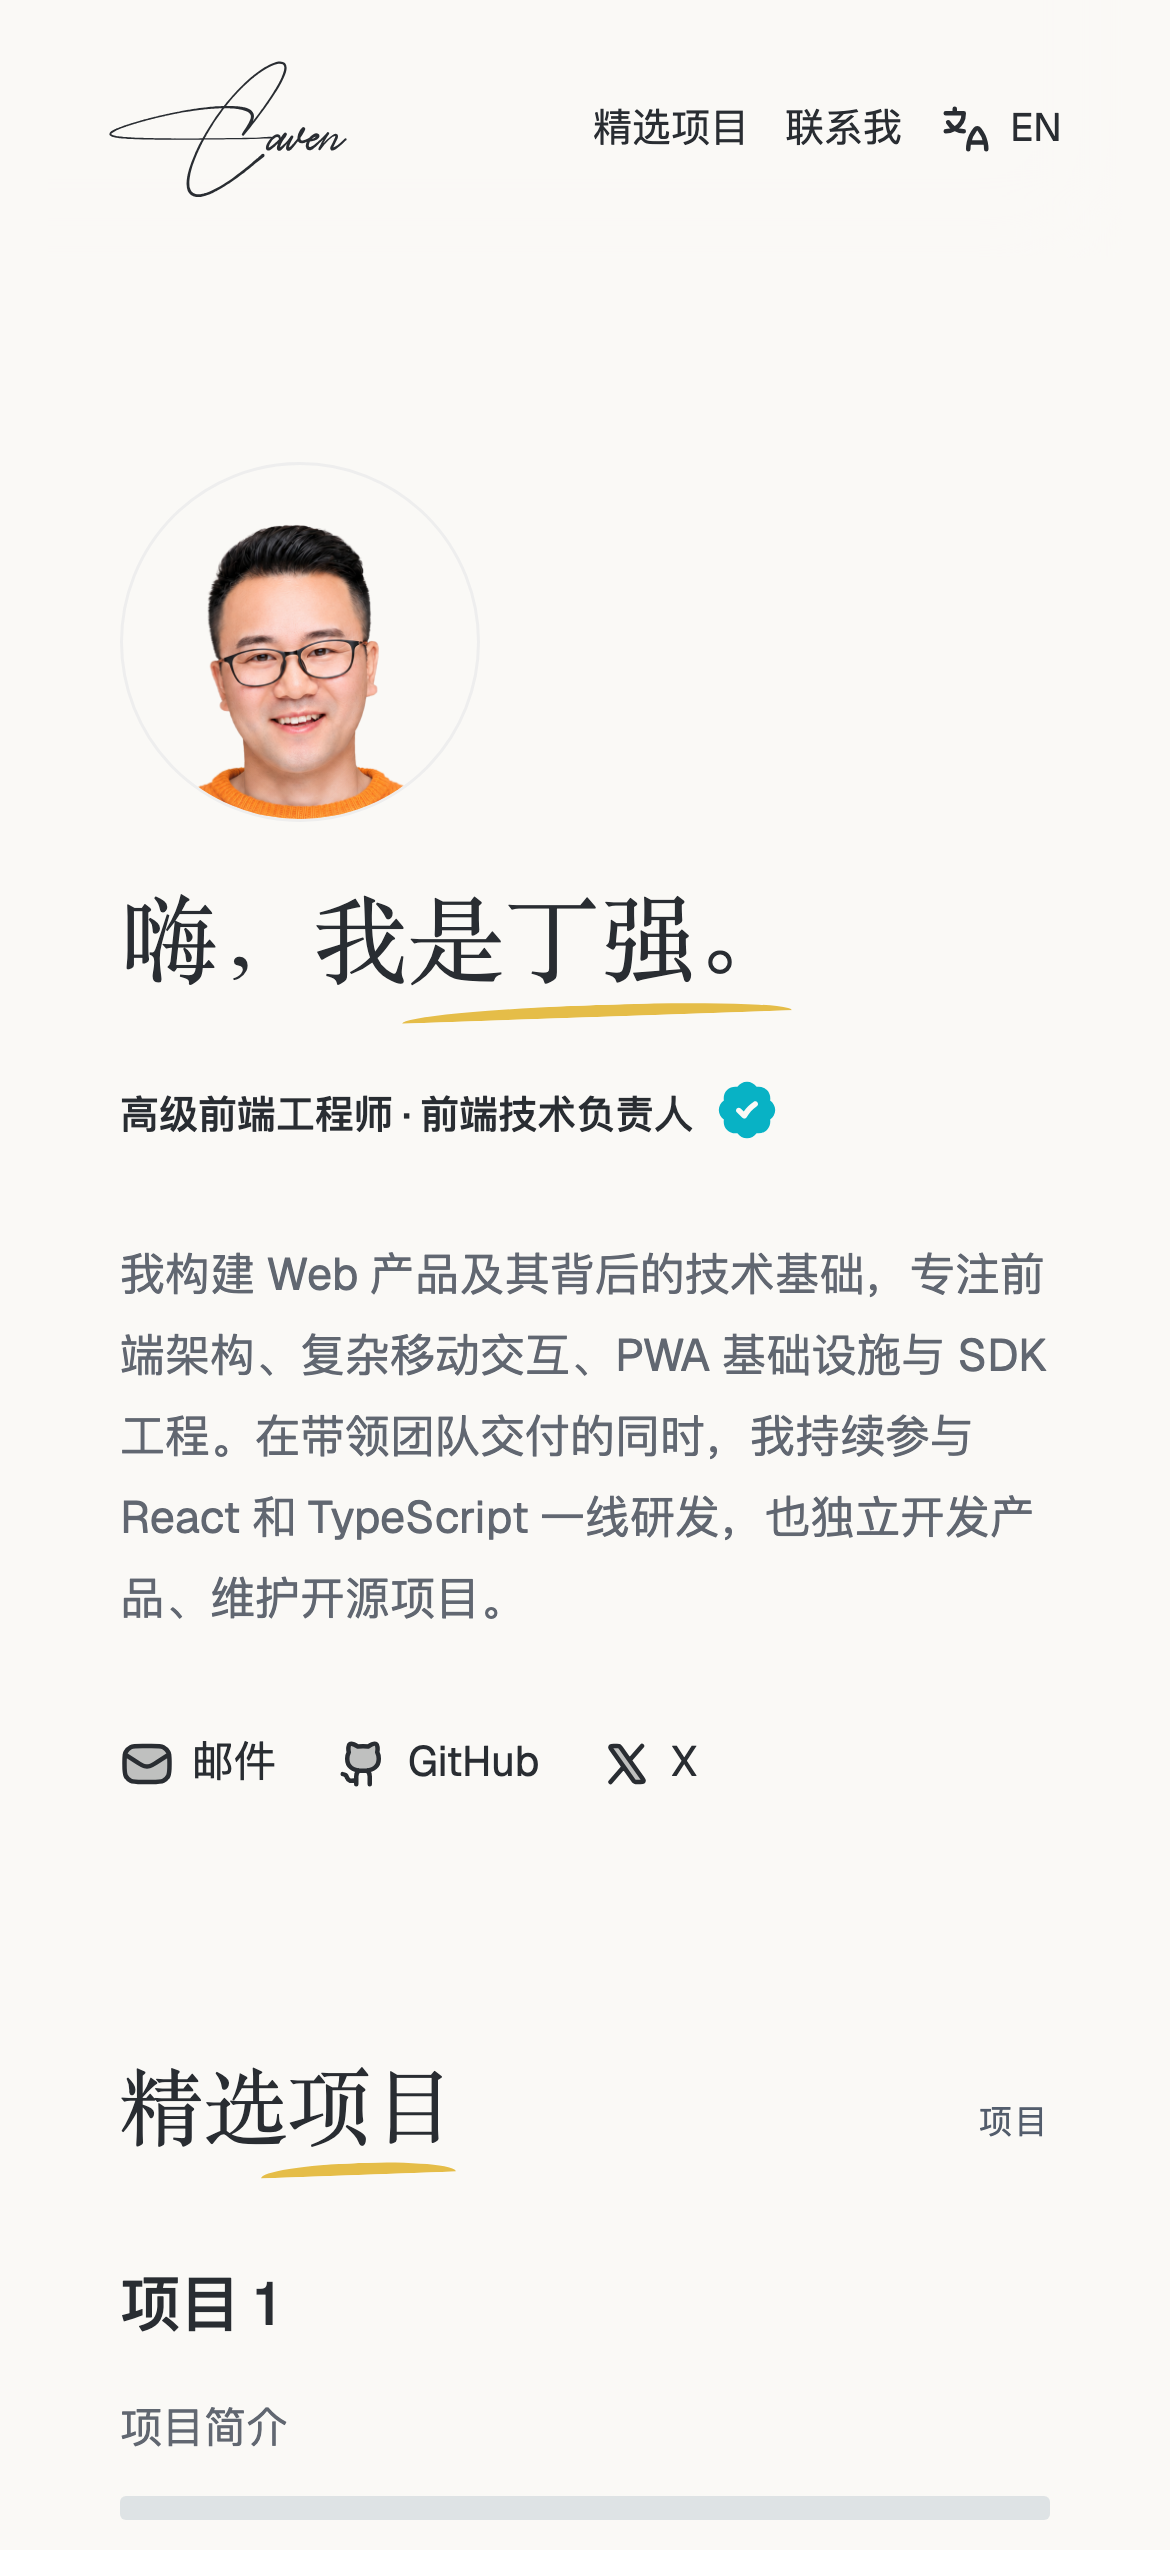
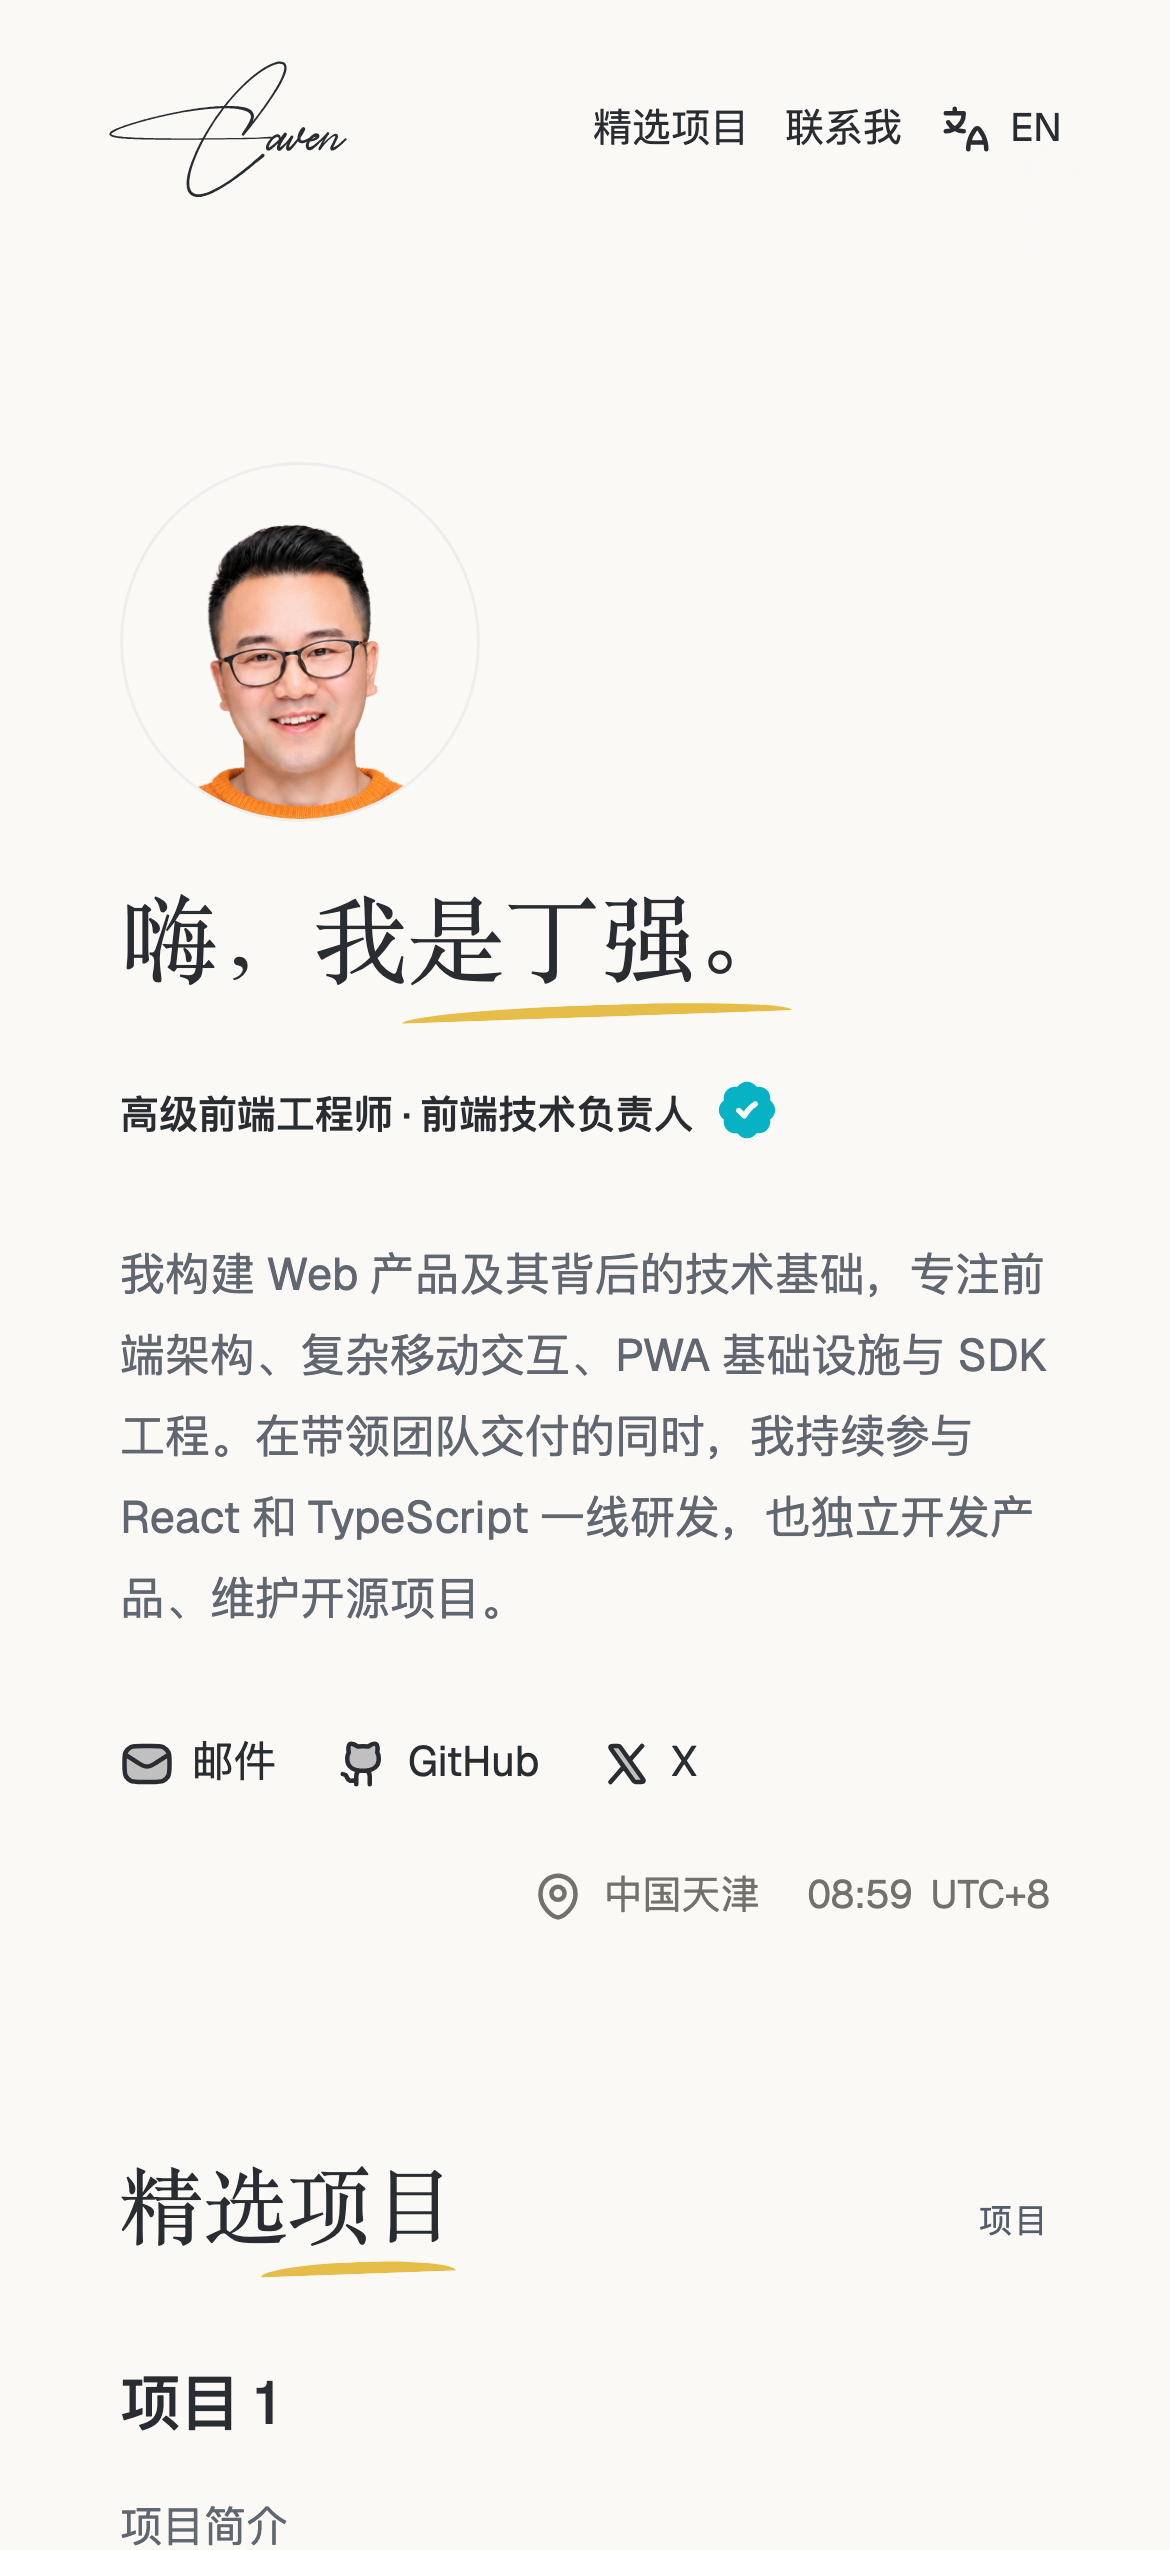
feat: show Tianjin local time beside contact links

diff --git a/tests/identity.test.ts b/tests/identity.test.ts
@@ -235,3 +235,22 @@ test("portrait sits above the greeting on narrow screens and beside it on deskto
     else expect(portrait.x + portrait.width).toBeLessThan(heading.x);
   }
 });
+
+test("Tianjin clock uses Beijing time and advances independently of visitor timezone", async ({
+  browser,
+}) => {
+  const context = await browser.newContext({ timezoneId: "America/New_York" });
+  const page = await context.newPage();
+  await page.clock.install({ time: new Date("2026-09-15T15:59:59Z") });
+  await page.goto("/zh/");
+  const clock = page.locator("[data-local-time]");
+  await expect(page.locator(".location-time")).toContainText("中国天津");
+  await expect(clock).toHaveText("23:59");
+  await page.clock.runFor(1000);
+  await expect(clock).toHaveText("00:00");
+  await expect(clock).toHaveAttribute("datetime", /^2026-09-15T16:00:/);
+  await page.goto("/");
+  await expect(page.locator(".location-time")).toContainText("Tianjin, China");
+  await expect(clock).toHaveText("00:00");
+  await context.close();
+});

diff --git a/src/data/home.ts b/src/data/home.ts
@@ -6,6 +6,8 @@ export const contact = {
   x: "https://x.com/cavenasdev",
 };
 
+export const homeTimeZone = "Asia/Shanghai";
+
 export const projectIds = ["pwarelay", "lemon-squeezy-sdk", "online-arbitrage-tool"];
 
 export const home = {
@@ -27,6 +29,8 @@ export const home = {
     profile: "Profile",
     portrait: "Portrait of Caven",
     email: "Email",
+    homeLocation: "Tianjin, China",
+    localTimeLabel: "Tianjin local time",
     project: "Project",
     projectIntro: "Project introduction",
     destinations: "destination placeholders",
@@ -73,6 +77,8 @@ export const home = {
     profile: "关于我",
     portrait: "丁强的照片",
     email: "邮件",
+    homeLocation: "中国天津",
+    localTimeLabel: "天津当地时间",
     project: "项目",
     projectIntro: "项目简介",
     destinations: "链接占位",

diff --git a/docs/identity-review.md b/docs/identity-review.md
@@ -120,3 +120,8 @@ The effect is implemented with native browser APIs. Once revealed, the control
 becomes a mailto link. Reduced motion reveals immediately; without JavaScript,
 the original mailto link remains available. Keyboard activation and independent
 instances are covered by the browser suite (34 tests).
+
+Location is user-confirmed Tianjin, China. The contact row renders local time using
+Asia/Shanghai (UTC+8), independent of the visitor timezone. Browser tests cover
+midnight rollover and both locale labels. Without JavaScript the city and UTC
+offset remain visible.
